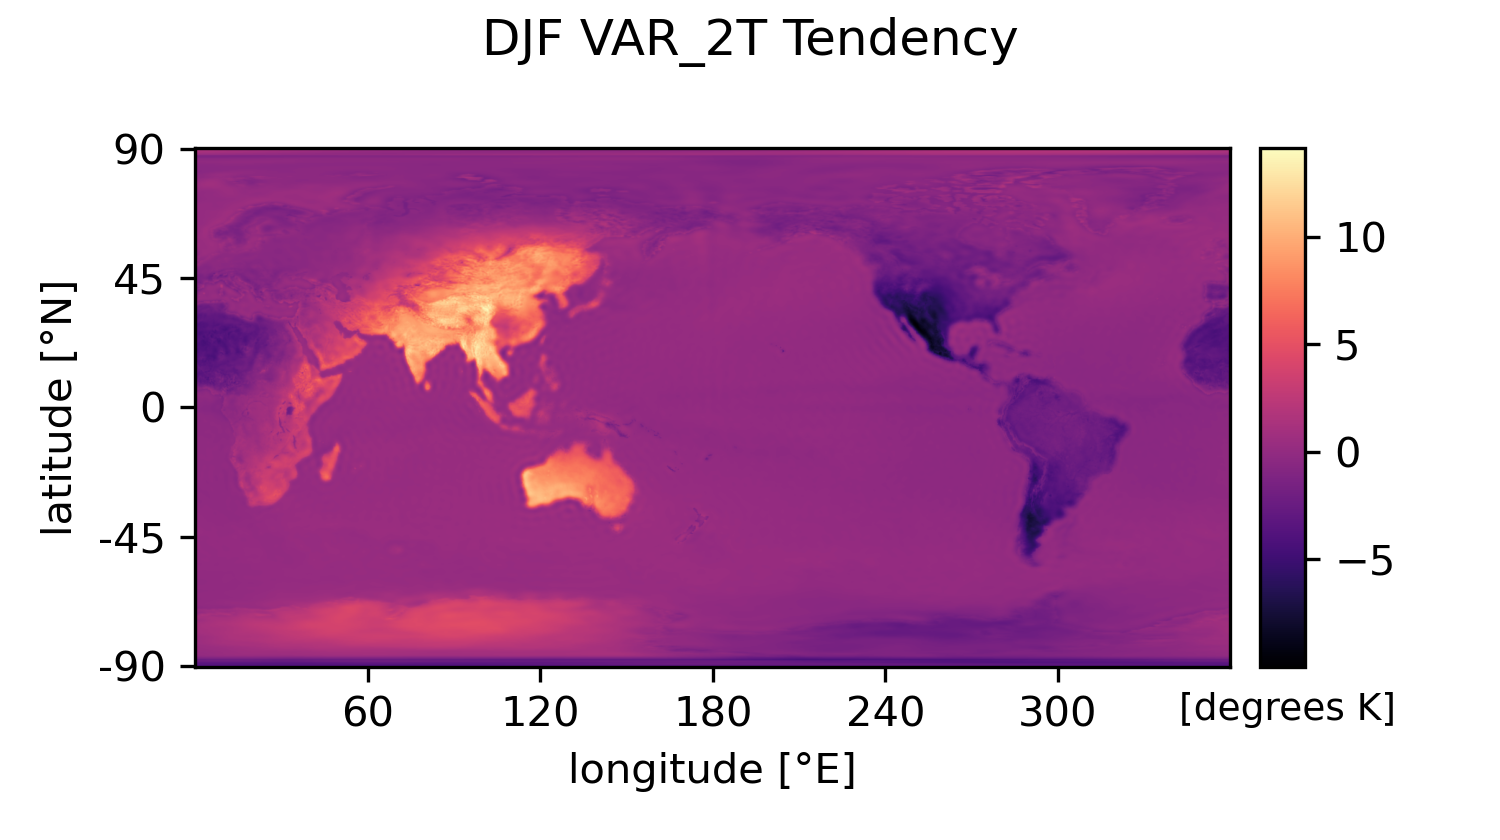
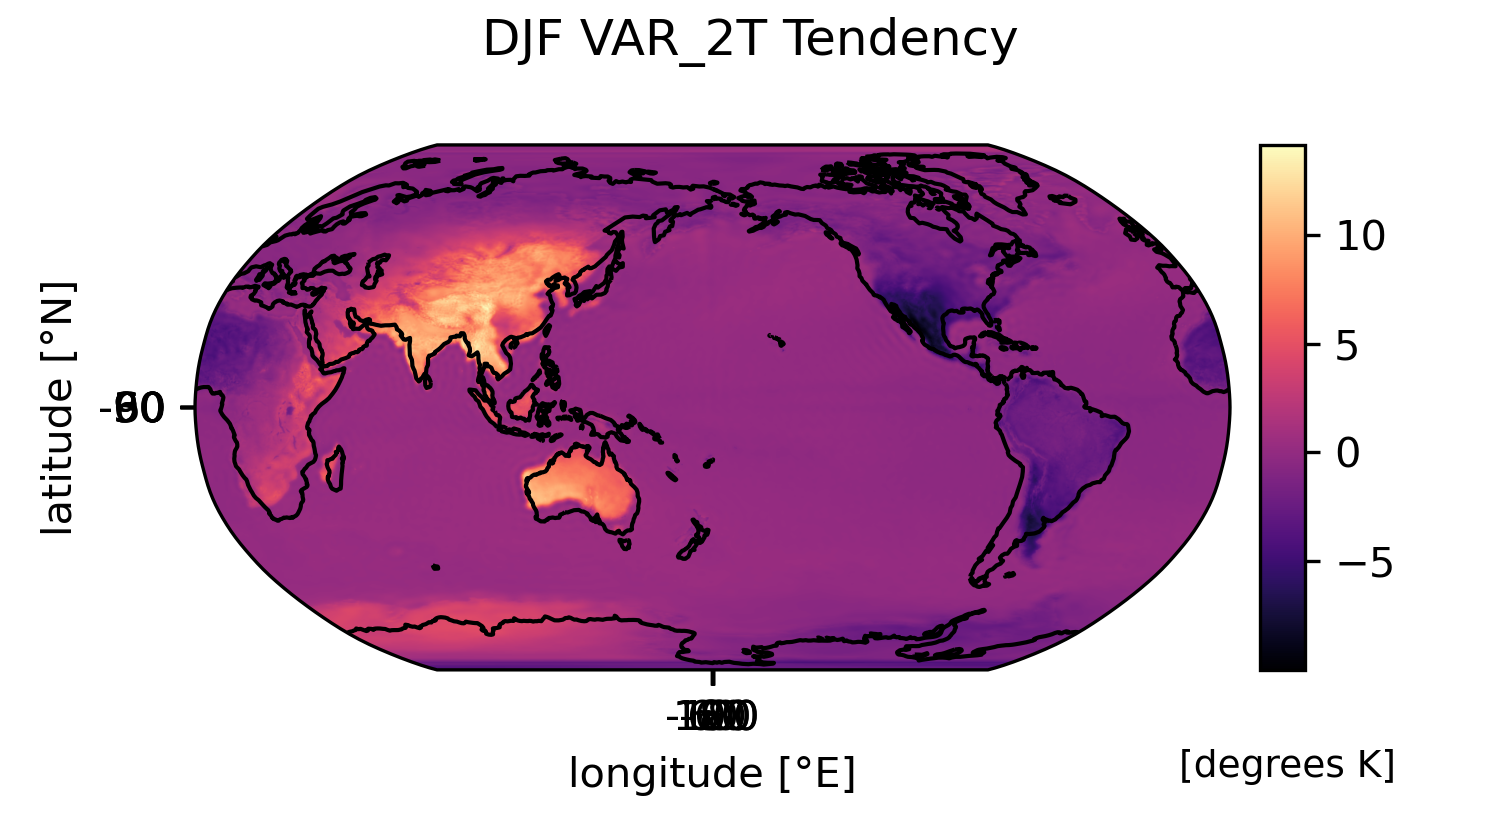
plotting, still need to figure out coords

diff --git a/utils/vis.py b/utils/vis.py
@@ -5,6 +5,7 @@ import imageio.v2 as imageio
 import matplotlib.pyplot as plt
 import matplotlib.cm as cm
 from matplotlib import colormaps
+import cartopy.crs as ccrs
 import shutil
 import yaml
 
@@ -156,10 +157,20 @@ def create_and_plot_variable_gif(
 
     ### make plot
     # set up figure and axis
-    fig, ax = plt.subplots(figsize=fig_size)
+    fig, ax = plt.subplots(figsize=fig_size, subplot_kw={"projection": ccrs.PlateCarree(central_longitude=180)}) # , subplot_kw={"projection": ccrs.PlateCarree(central_longitude=180)}
 
     # set up first frame to be updated in later loop
-    im = ax.imshow(data.isel({iter_var:iter_vals[0]}), vmin=vmin, vmax=vmax, cmap=cmap, origin="lower")
+    extent = [lon.min(), lon.max(), lat.min(), lat.max()]
+   
+    im = ax.imshow(
+        data.isel({iter_var:iter_vals[0]}), 
+        vmin=vmin, vmax=vmax, 
+        cmap=cmap, 
+        origin="lower",
+        transform=ccrs.PlateCarree(central_longitude=180),
+    )   
+    ax.coastlines()
+    ax.set_global()
 
     ### Set axis information
     # labels
@@ -169,10 +180,10 @@ def create_and_plot_variable_gif(
     ax.set_ylabel(yax_label)
 
     # ticks and ticklabels
-    xticks = np.linspace(0, nlon, nlon_ticks, dtype=int)[1:-1]
-    yticks = np.linspace(0, nlat - 1, nlat_ticks, dtype=int)
-    xticklabs = lon[xticks].astype(int)
-    yticklabs = lat[yticks].astype(int)
+    xticks = [-180, -120, -60, 0, 60, 120, 180]
+    yticks = [-90, -60, -30, 0, 30, 60, 90]
+    xticklabs = [str(x) for x in xticks[3:] + xticks[:3]]
+    yticklabs = [str(y) for y in yticks[3:] + yticks[:3]]
     ax.set_xticks(xticks)
     ax.set_yticks(yticks)
     ax.set_xticklabels(xticklabs)
@@ -215,7 +226,7 @@ def create_and_plot_variable_gif(
     cbar.ax.set_ylabel(
         cbar_label,
         rotation="horizontal",
-        y=-0.05,
+        y=-0.15,
         horizontalalignment="right",
         labelpad=0,
         fontsize=9,

diff --git a/experiments/hakim_and_masanam/2.analysis.py b/experiments/hakim_and_masanam/2.analysis.py
@@ -10,8 +10,6 @@ warnings.filterwarnings("ignore", category=FutureWarning)
 
 # set up paths
 this_dir = Path(__file__).parent
-data_dir = this_dir / "data" # where to save output from inference
-data_path = data_dir / "output.nc"
 plot_dir = this_dir / "plots" # save figures here
 plot_dir.mkdir(parents=True, exist_ok=True) # make dir if it doesn't exist
 
@@ -20,6 +18,8 @@ config_path = this_dir / "0.config.yaml"
 with open(config_path, 'r') as file:
     config = yaml.safe_load(file)
     
+data_path = config["output_path"]
+    
 # convenience vars
 n_timesteps = config["n_timesteps"]
 lead_times_h = np.arange(0, 6*n_timesteps+1, 6)
@@ -27,6 +27,7 @@ g = 9.81 # m/s^2
 
 # load dataset
 ds = xr.open_dataset(data_path)
+heating_ds = xr.open_dataset(config["heating_save_path"])
 
 # make pretty plots
 titles = [f"VAR_2T at t={t*6} hours" for t in range(n_timesteps+1)]
@@ -79,6 +80,21 @@ vis.create_and_plot_variable_gif(
     cmap="magma",
     titles=titles,
     keep_images=True,
+    dpi=300,
+    fps=1,
+)
+
+titles = ["Heating Term $f$: $T_{500}$ Perturbation"]
+vis.create_and_plot_variable_gif(
+    data=heating_ds["T"].sel(level=500).isel(time=0),
+    plot_var="T_500_Heating",
+    iter_var="ensemble",
+    iter_vals=[0],
+    plot_dir=plot_dir,
+    units="$\Delta$ degrees K",
+    cmap="Reds",
+    titles=titles,
+    keep_images=False,
     dpi=300,
     fps=1,
 )

diff --git a/experiments/hakim_and_masanam/1.tropical_heating_sfno.py b/experiments/hakim_and_masanam/1.tropical_heating_sfno.py
@@ -14,8 +14,6 @@ warnings.filterwarnings("ignore", category=FutureWarning)
 
 # set up paths
 this_dir = Path(__file__).parent
-data_dir = this_dir / "data" # where to save output from inference
-output_path = data_dir / "output.nc"
 
 # read configuration
 config_path = this_dir / "0.config.yaml"
@@ -34,6 +32,7 @@ print("Model loaded.")
 # set data paths
 IC_path = Path(config["IC_path"])
 IC_tendency_path = Path(config["IC_tendency_path"])
+output_path = Path(config["output_path"])
 
 # convenience vars
 n_timesteps = config["n_timesteps"]
@@ -82,6 +81,11 @@ heating_ds["T"].loc[dict(level=levs)] = heating
 zero_vars = ["U", "V", "Z", "R", "VAR_10U", "VAR_10V", "VAR_100U", "VAR_100V", "SP", "MSL", "TCW", "VAR_2T"]
 for var in zero_vars:
     heating_ds[var][:] = 0.
+    
+# save heating_ds to file
+print(f"Saving heating dataset to {config['heating_save_path']}.")
+heating_ds_path = config["heating_save_path"]
+heating_ds.to_netcdf(heating_ds_path)
     
 rpert = - tds + heating_ds
 # test with below line -- model output should be static
